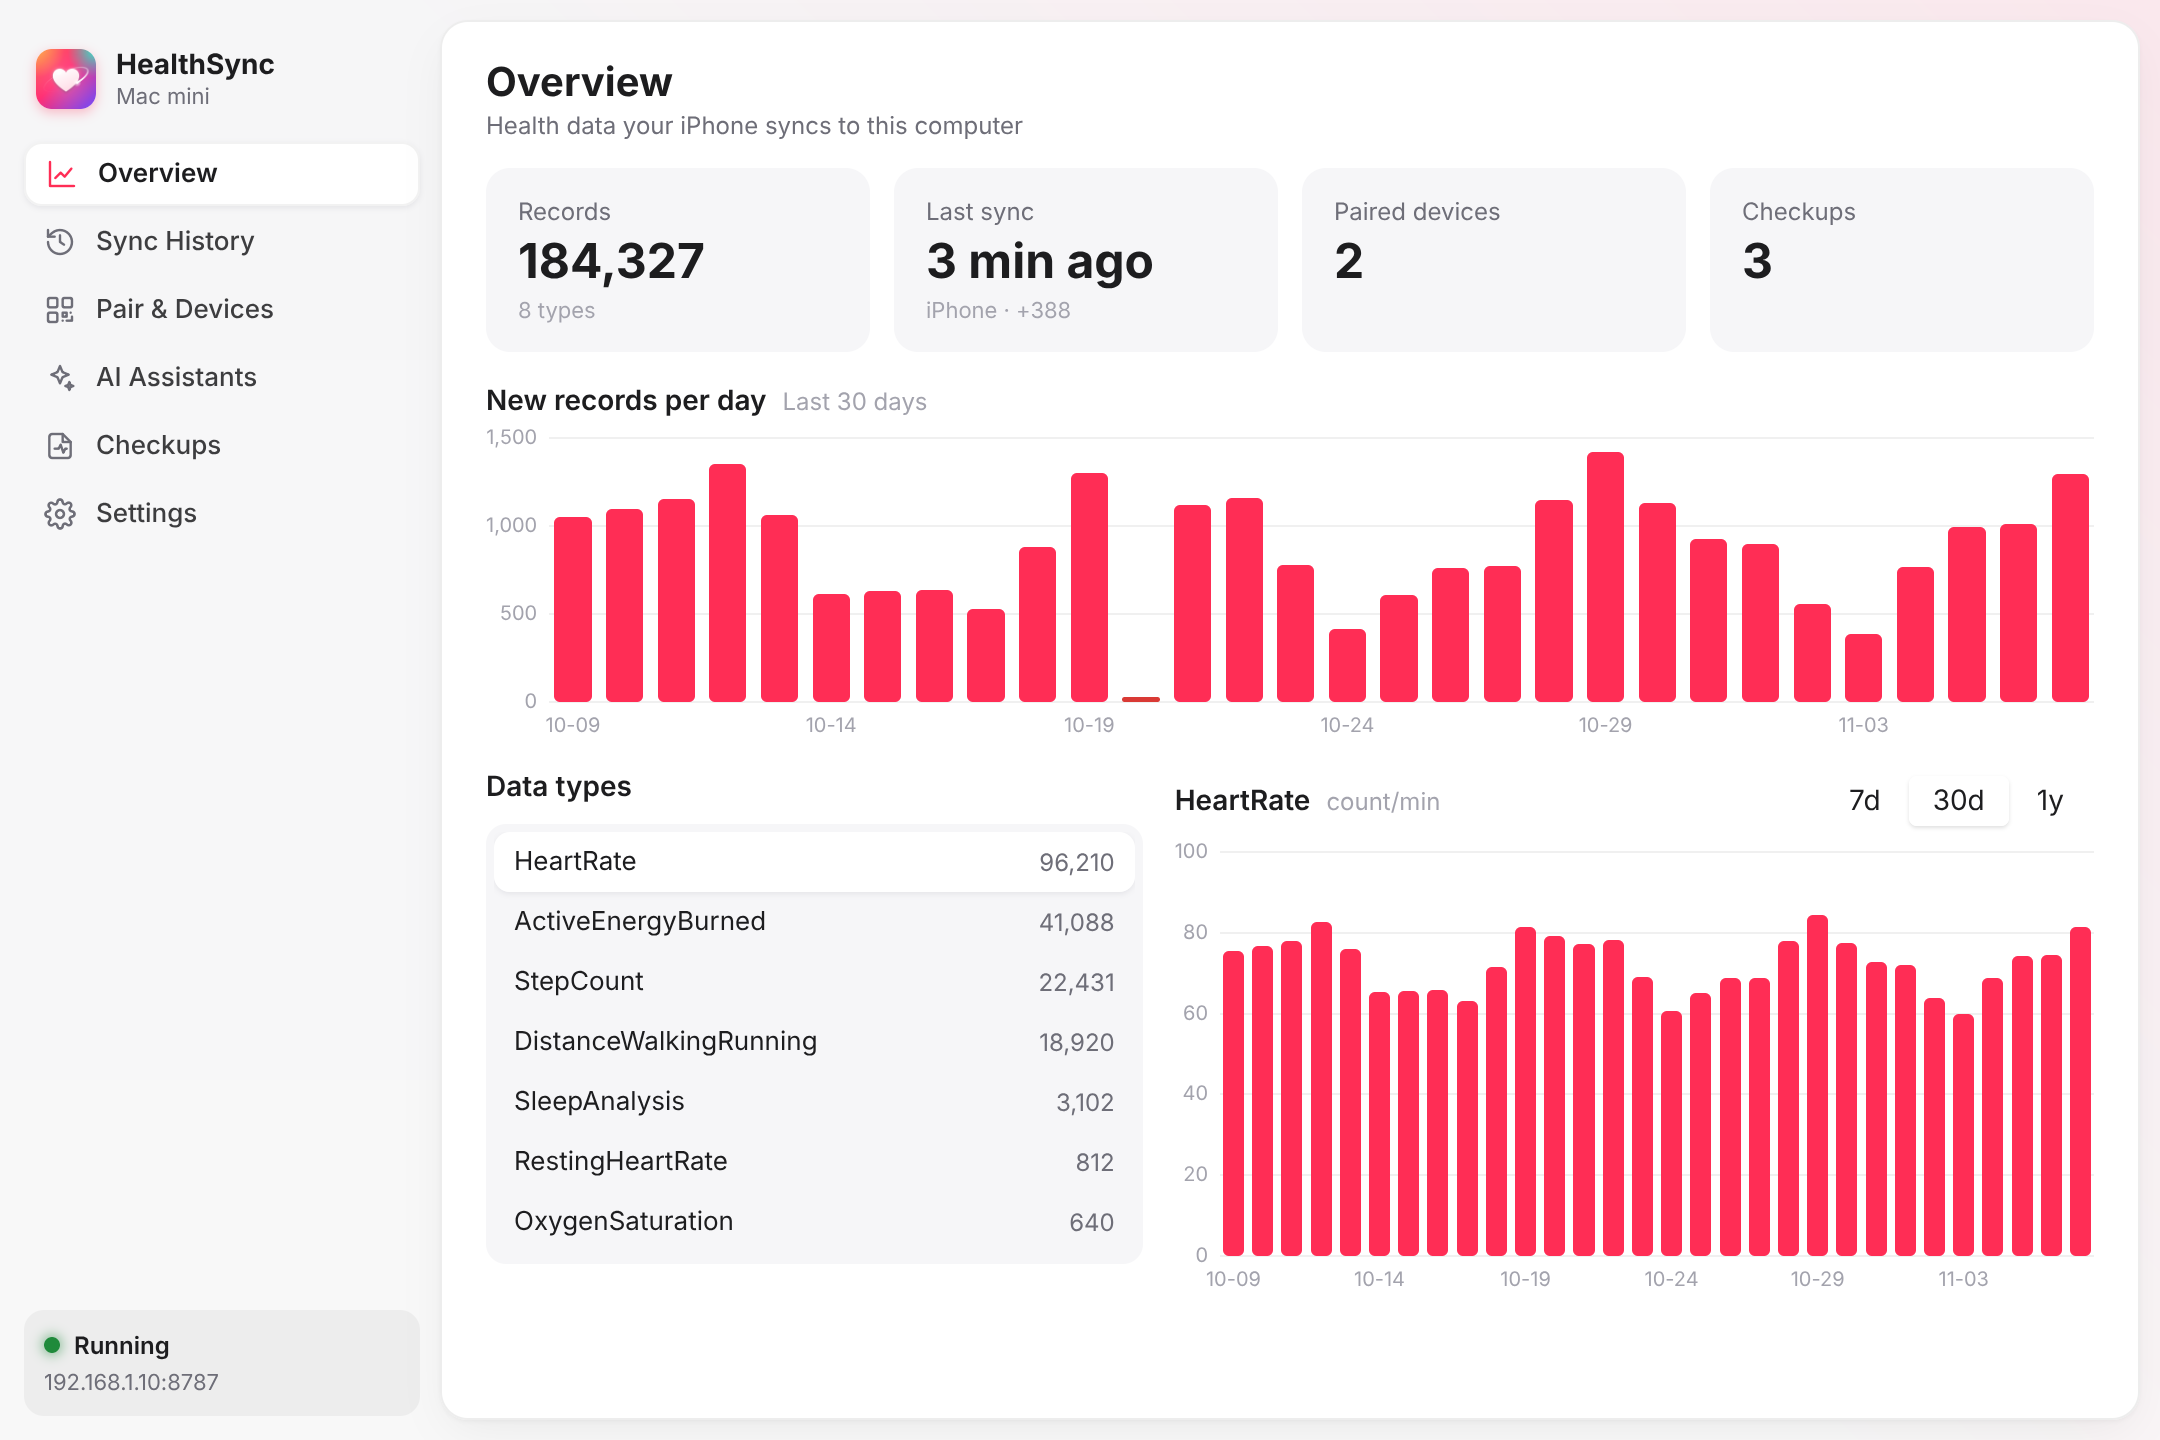
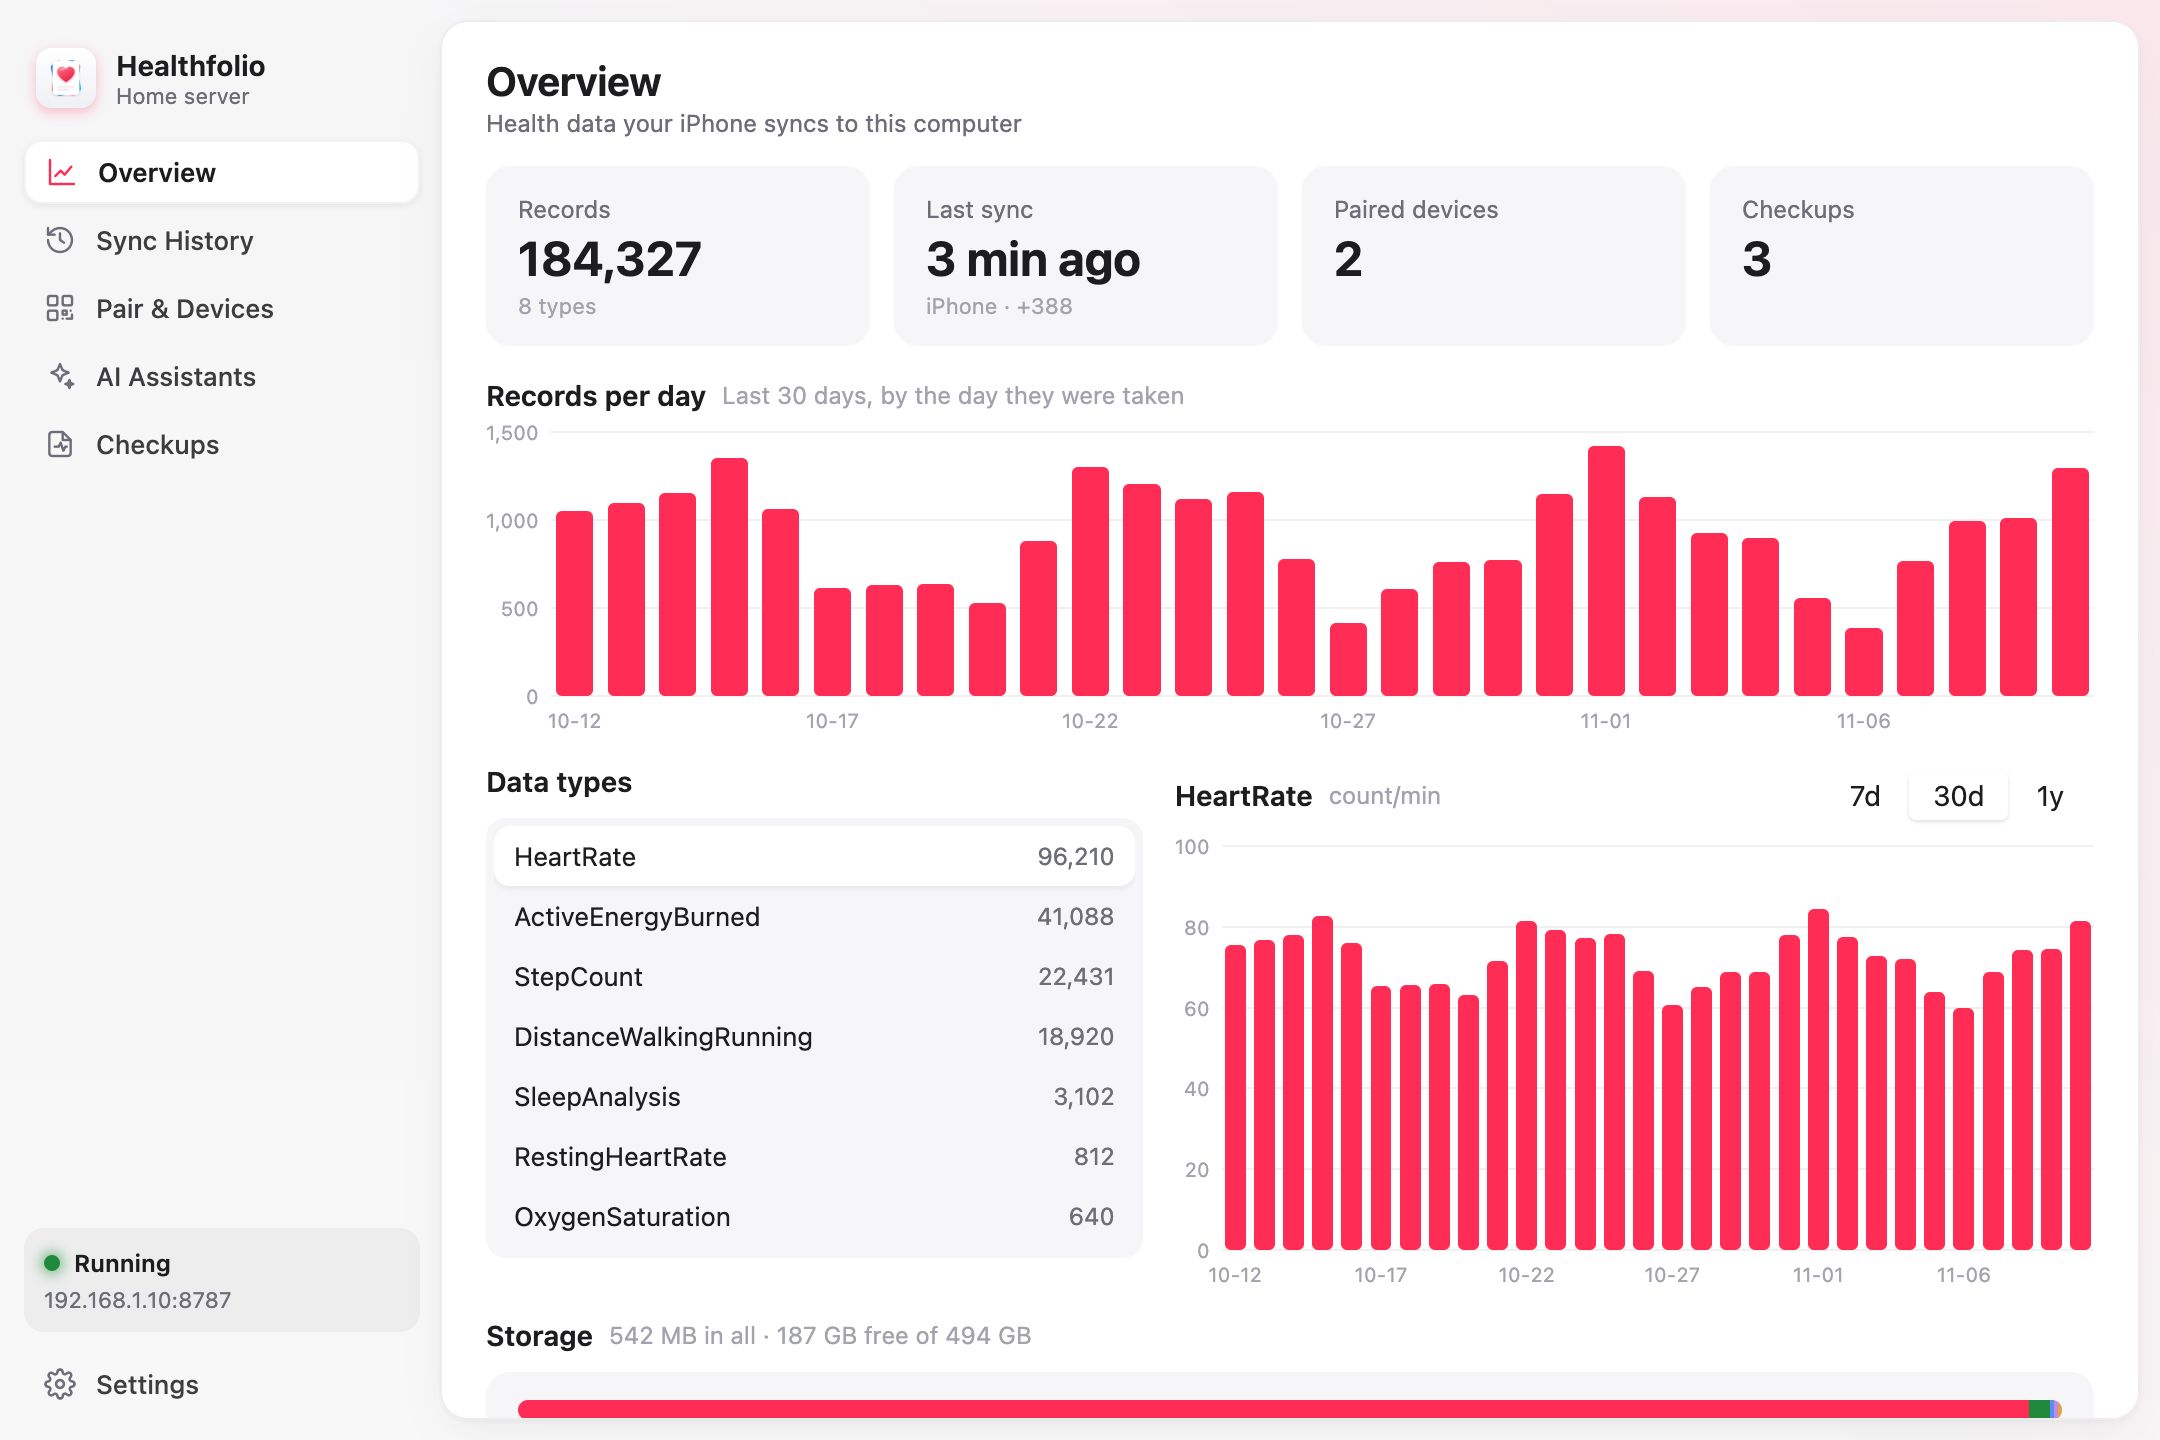
Screenshots of 0.0.15 (Healthfolio); sample server named Home server

diff --git a/desktop/sample.go b/desktop/sample.go
@@ -41,7 +41,7 @@ func (s *Sample) Overview() model.Overview {
 	act[11].Added, act[11].Fails = 0, 2
 	last := model.LogEntry{Time: now.Add(-3 * time.Minute).Format(time.RFC3339), Kind: "ingest", Device: "iPhone", OK: true, Received: 412, Added: 388}
 	return model.Overview{
-		Name: "Mac mini", Version: "0.2.0", Protocol: 2, OS: "mac", BaseURL: "http://192.168.1.10:8787", TailscaleURL: "http://100.101.102.103:8787", MCPURL: "http://192.168.1.10:8787/mcp",
+		Name: "Home server", Version: "0.0.15", Protocol: 2, OS: "mac", BaseURL: "http://192.168.1.10:8787", TailscaleURL: "http://100.101.102.103:8787", MCPURL: "http://192.168.1.10:8787/mcp",
 		DataDir: "~/Library/Application Support/HealthSync", Outputs: []model.Output{{Kind: "sqlite", Where: "health.db"}},
 		Stats: model.Stats{Total: 184_327, Types: []model.TypeStat{
 			{Type: "HKQuantityTypeIdentifierHeartRate", Count: 96_210}, {Type: "HKQuantityTypeIdentifierActiveEnergyBurned", Count: 41_088},
@@ -148,7 +148,7 @@ func (s *Sample) NewMCPToken(name string) (model.MCPConnect, error) {
   }
 }`},
 	}
-	return model.MCPConnect{Name: "Mac mini", Token: tok, URL: "http://192.168.1.10:8787/mcp", ConfigList: cfgs}, nil
+	return model.MCPConnect{Name: "Home server", Token: tok, URL: "http://192.168.1.10:8787/mcp", ConfigList: cfgs}, nil
 }
 func (s *Sample) DashboardURL() string { return "http://127.0.0.1:8787/" }
 

diff --git a/cmd/healthsync-preview/main.go b/cmd/healthsync-preview/main.go
@@ -28,7 +28,7 @@ func main() {
 	frag := fragment()
 	app := desktop.New(s, !strings.Contains(frag, "en"))
 	mygo.App.WhenReady(func() {
-		win = mygo.NewWindow(mygo.WindowOptions{Title: "HealthSync", Width: 1080, Height: 720, Content: ui.View(app.View)})
+		win = mygo.NewWindow(mygo.WindowOptions{Title: "Healthfolio", Width: 1080, Height: 720, Content: ui.View(app.View)})
 		if strings.Contains(frag, "welcome") {
 			app.ShowOnboarding()
 			return
